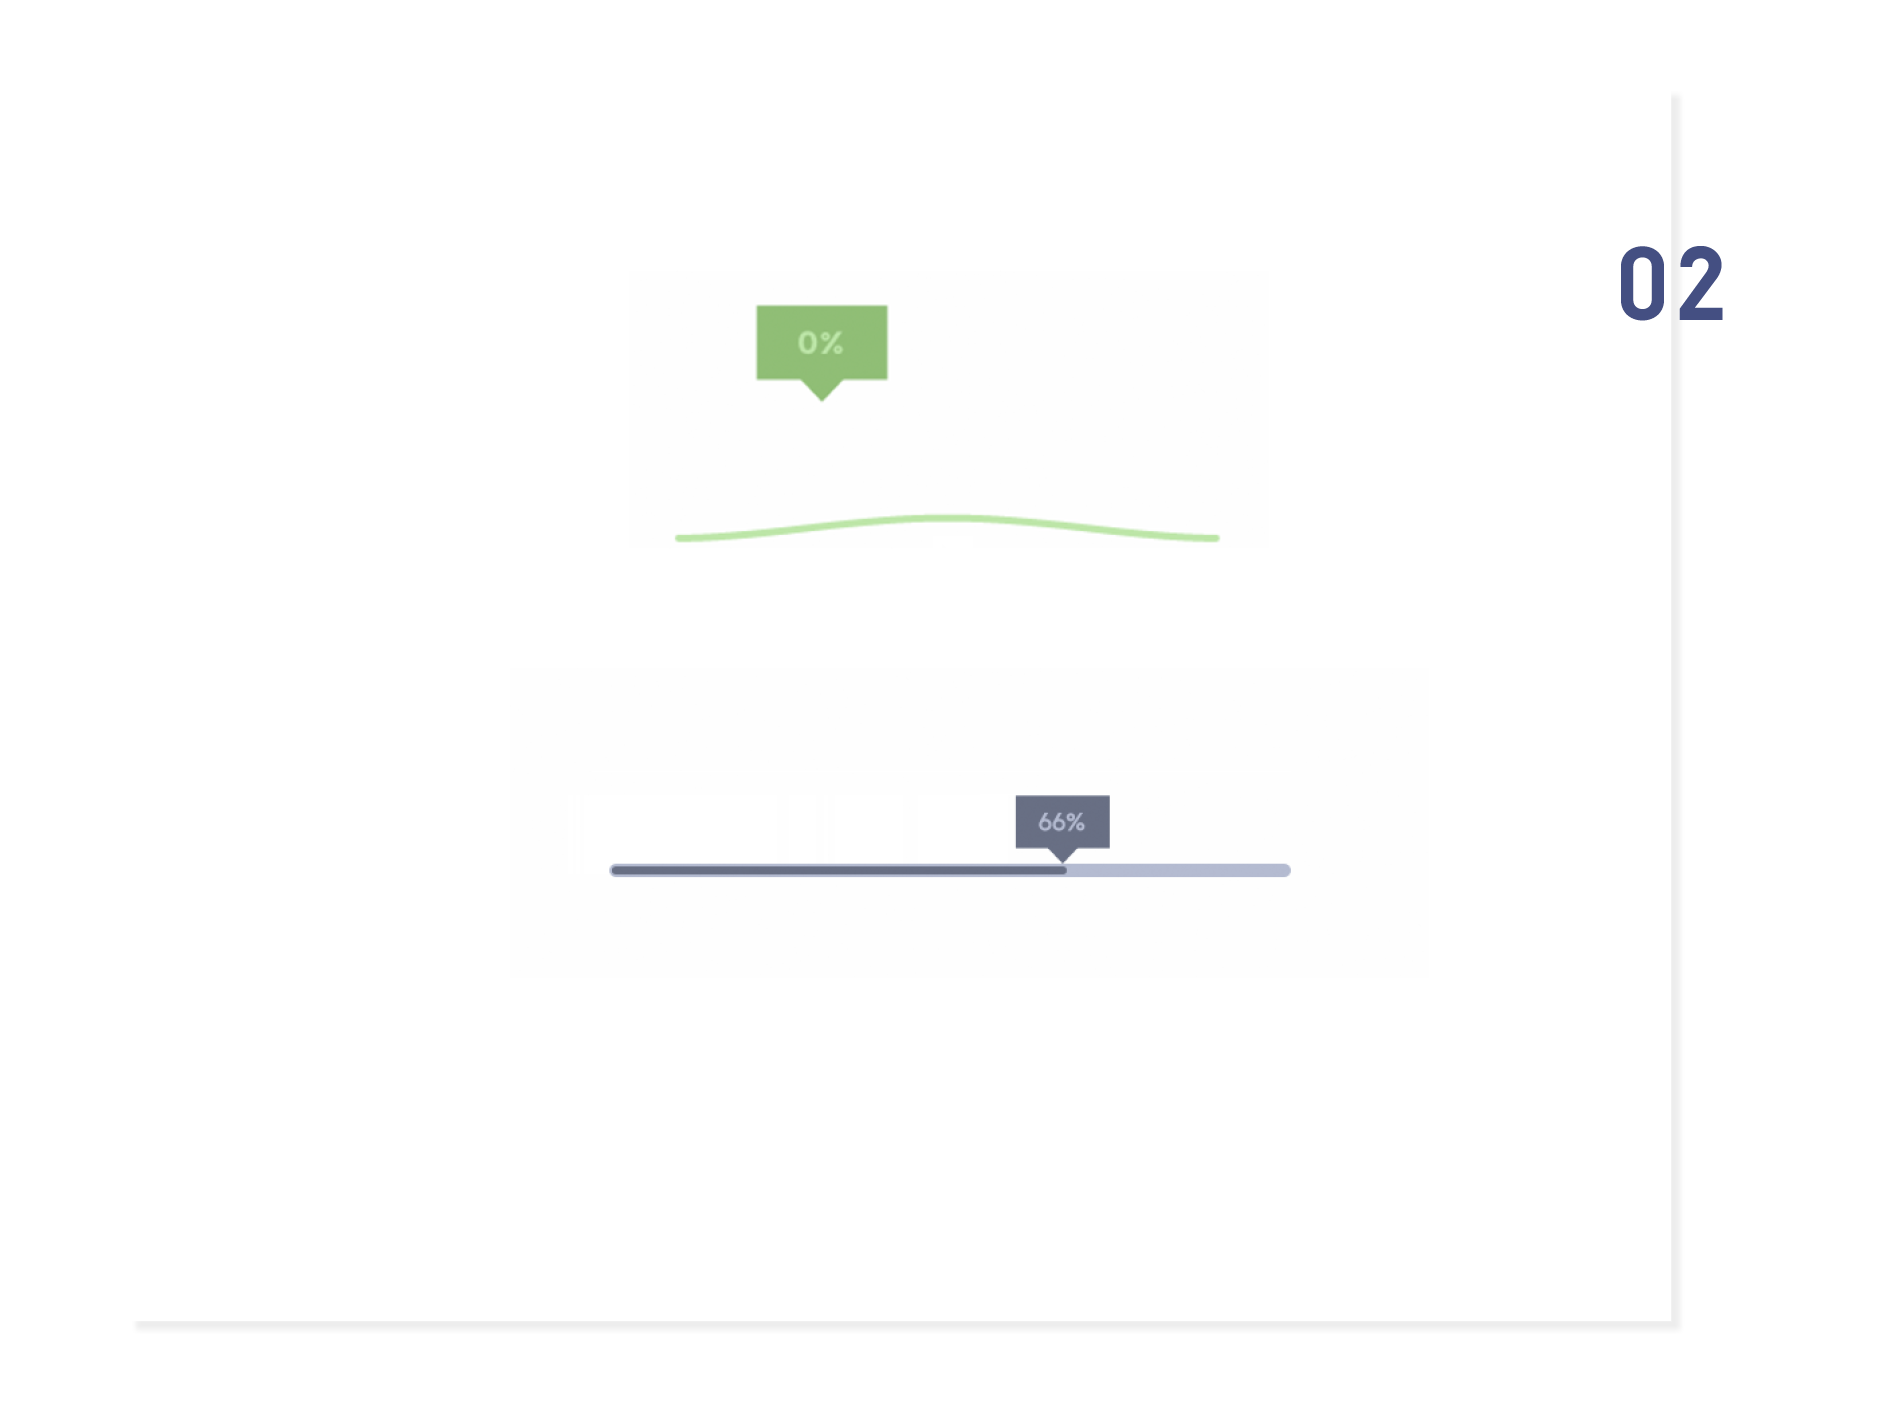
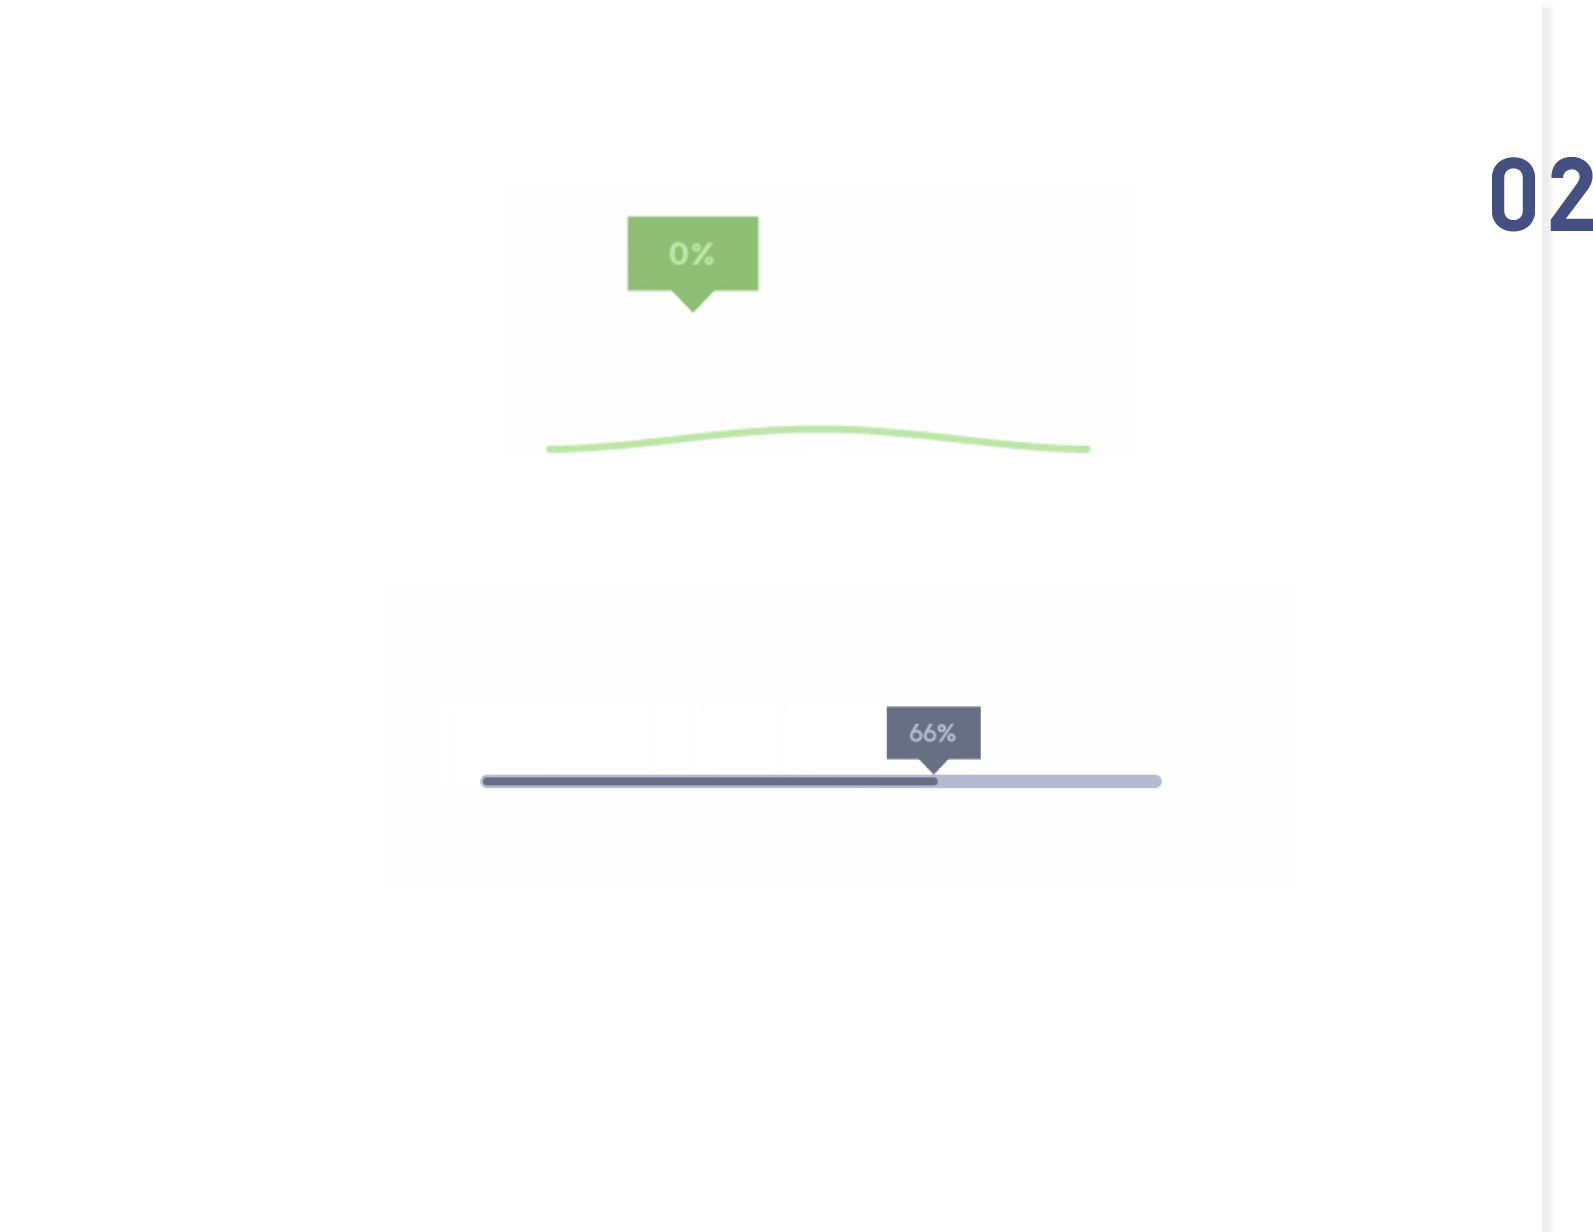
cambiamenti2

diff --git a/index.html b/index.html
@@ -25,7 +25,12 @@
   <p class="browserupgrade">You are using an <strong>outdated</strong> browser. Please <a href="http://browsehappy.com/">upgrade your browser</a> to improve your experience.</p>
   <![endif]-->
 
-  <div id="header"></div>
+  <div id="header">
+
+
+
+
+  </div>
   <div id="footer">
     <ul id="menu-left" class="menu">
       <li data-menuanchor="firstPage"><a href="#section1"><img src="img/icone/bianca_vista.png"></a></li>
@@ -63,9 +68,9 @@
       <div class=" content">
         <div class="render">
 
-          <h1 id="numero">02</h1>
+          <!-- <h1 id="numero">02</h1> -->
 
-          <img src="img/2.jpg" />
+          <img src="img/3.png" />
         </div> <!-- render -->
       </div> <!-- content -->
     </div> <!-- section1 -->
@@ -171,6 +176,7 @@
 
 
                 </div>
+              </div>
 
                 <!--   <div class="section" id="section3">
                 <div class="">

diff --git a/js/jquery.fullPage.js b/js/jquery.fullPage.js
@@ -1291,11 +1291,11 @@
         }
 
         var previousDestTop = 0;
-        /**
+
         * Returns the destination Y position based on the scrolling direction and
         * the height of the section.
         */
-        function getDestinationPosition(element){
+        /** function getDestinationPosition(element){
             var elemPosition = element.position();
 
             //top of the desination will be at the top of the viewport
@@ -1310,7 +1310,7 @@
                     position = sectionBottom;
                 }
             }
-
+*/
             //sections equal or smaller than the viewport height && scrolling down? ||  is resizing and its in the last section
             else if(isScrollingDown || (isResizing && element.is(':last-child')) ){
                 //The bottom of the destination will be at the bottom of the viewport

diff --git a/css/style.css b/css/style.css
@@ -263,8 +263,7 @@ abbr, acronym {
  * --------------------------------------- */
 body {
   font-family: arial,helvetica;
-  color: #333;
-  color: rgba(0, 0, 0, 0.5); }
+  color: #333; }
 
 .wrap {
   margin-left: auto;
@@ -291,7 +290,6 @@ p {
 
 .menu li.active {
   background: #666;
-  background: rgba(0, 0, 0, 0.5);
   color: #fff; }
 
 .menu li a {
@@ -300,9 +298,6 @@ p {
 
 .menu li.active a:hover {
   color: #000; }
-
-.menu li:hover {
-  background: rgba(255, 255, 255, 0.8); }
 
 .menu li a,
 .menu li.active a {
@@ -508,7 +503,7 @@ h1 {
     height: 300px; }
   .section .box-height-100 p {
     margin-left: 70px;
-    margin-top: 6px;
+    margin-top: 10px;
     font-size: 14px; }
   .section .box-height-50 {
     height: 250px; }

diff --git a/js/main.js b/js/main.js
@@ -23,7 +23,7 @@ $(document).ready(function() {
       var content = $(this);
       //content.hide();
       var parent = content.parent();
-      var height = parent.height()-$("#header").height()-$("#footer").height()-170;
+      var height = parent.height()-$("#header").height()-$("#footer").height()-570;
       content.height(height);
       content.find("img").each(function(index,element){
         $(this).css({
@@ -37,7 +37,7 @@ $(document).ready(function() {
           })
         }
       })
-    console.log(parent.height())
+    //console.log(parent.height())
     })
   }
  setupContents();

diff --git a/css/manual.css b/css/manual.css
@@ -510,7 +510,7 @@ src: url("../fonts/Baron Neue.otf") format("opentype");
   #footer ul.menu#menu-right {
     position: absolute;
     width: 400px;
-    right: 143px;
+    right: 144px;
     text-align: right; }
   #footer ul.menu li {
     display: inline-block; }
@@ -652,4 +652,5 @@ src: url("../fonts/Baron Neue.otf") format("opentype");
   color: #fff; /* #2C314D */
   text-decoration: none;
 }
+
 /*# sourceMappingURL=style.css.map */
